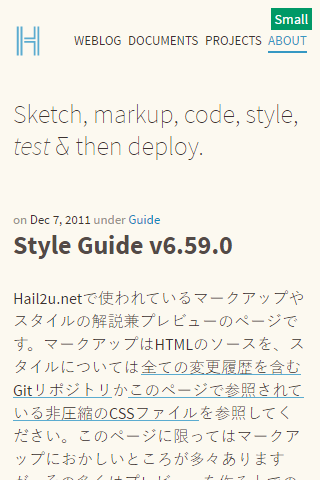
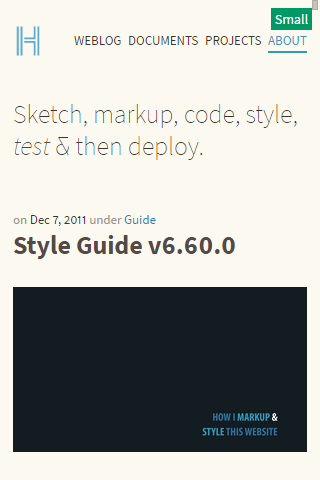
Deploy

diff --git a/styles/debug.min.css b/styles/debug.min.css
@@ -3,5 +3,5 @@
  * https://github.com/hail2u/hail2u.net-styles
  *
  * Licensed under MIT: http://hail2u.mit-license.org/2012
- */.colors{zoom:1}.colors:before,.colors:after{display:block;content:""}.colors:after{clear:both}.show-column::before{background-image:linear-gradient(to right,#0f0 0,#0f0 100%),linear-gradient(to right,#0f0 0,#0f0 100%),linear-gradient(to right,#f0f 0,#f0f 100%);background-position:left center,right center,center;background-repeat:repeat-y;background-size:.809rem,.809rem,100%;bottom:0;content:'';left:0;opacity:.05;pointer-events:none;position:fixed;right:0;top:0;z-index:1}body::after{background-color:#096;color:#fff;content:'Small';display:block;font-size:.875rem;line-height:1;padding:.25rem;position:fixed;right:.5rem;top:.5rem}.font-family-body{font-family:Source Sans Pro,Segoe UI Emoji,sans-serif}.font-family-code{font-family:Source Code Pro,Segoe UI Emoji,monospace}.font-family-tagline{font-family:Megrim,Source Sans Pro,Segoe UI Emoji,sans-serif;font-weight:200}.italic{font-style:italic}.bold{font-weight:700}.colors{padding-left:0}.colors li{-moz-box-sizing:border-box;box-sizing:border-box;display:block;height:3rem;margin-top:1.618rem;overflow:hidden;width:100%}.colors li::before{-moz-box-sizing:border-box;box-sizing:border-box;border:1px solid #000;content:'';display:block;height:100%;width:100%}.colors__variation-shade li:nth-child(1)::before{background-color:#3c3330}.colors__variation-shade li:nth-child(2)::before{background-color:#534a47}.colors__variation-shade li:nth-child(3)::before{background-color:#6a625e}.colors__variation-shade li:nth-child(4)::before{background-color:#817a75}.colors__variation-shade li:nth-child(5)::before{background-color:#98928c}.colors__variation-tint li:nth-child(1)::before{background-color:#fcf9f0}.colors__variation-tint li:nth-child(2)::before{background-color:#b3ada7}.colors__variation-tint li:nth-child(3)::before{background-color:#cac5be}.colors__variation-tint li:nth-child(4)::before{background-color:#e1ddd5}.colors__variation-tint li:nth-child(5)::before{background-color:#f8f5ec}.colors__variation-accent li:nth-child(1)::before{background-color:#18b}.colors__variation-accent li:nth-child(2)::before{background-color:#045375}.colors__variation-accent li:nth-child(3)::before{background-color:#056b97}.colors__variation-accent li:nth-child(4)::before{background-color:#3598c3}.colors__variation-accent li:nth-child(5)::before{background-color:#5bacd0}.colors__variation-accent__complement li:nth-child(1)::before{background-color:#ff8c0c}.colors__variation-accent__complement li:nth-child(2)::before{background-color:#b96200}.colors__variation-accent__complement li:nth-child(3)::before{background-color:#ef7e00}.colors__variation-accent__complement li:nth-child(4)::before{background-color:#ffa33c}.colors__variation-accent__complement li:nth-child(5)::before{background-color:#ffb868}.colors__variation-accent__adjacent-negative li:nth-child(1)::before{background-color:#0acb58}.colors__variation-accent__adjacent-negative li:nth-child(2)::before{background-color:#008536}.colors__variation-accent__adjacent-negative li:nth-child(3)::before{background-color:#00ac46}.colors__variation-accent__adjacent-negative li:nth-child(4)::before{background-color:#31d172}.colors__variation-accent__adjacent-negative li:nth-child(5)::before{background-color:#5adb8e}.colors__variation-accent__adjacent-positive li:nth-child(1)::before{background-color:#2238c5}.colors__variation-accent__adjacent-positive li:nth-child(2)::before{background-color:#0c1c7f}.colors__variation-accent__adjacent-positive li:nth-child(3)::before{background-color:#1024a4}.colors__variation-accent__adjacent-positive li:nth-child(4)::before{background-color:#4457cc}.colors__variation-accent__adjacent-positive li:nth-child(5)::before{background-color:#6878d7}.colors__variation-accent__triad-negative li:nth-child(1)::before{background-color:#ffba0c}.colors__variation-accent__triad-negative li:nth-child(2)::before{background-color:#b98500}.colors__variation-accent__triad-negative li:nth-child(3)::before{background-color:#efac00}.colors__variation-accent__triad-negative li:nth-child(4)::before{background-color:#ffc83c}.colors__variation-accent__triad-negative li:nth-child(5)::before{background-color:#ffd468}.colors__variation-accent__triad-positive li:nth-child(1)::before{background-color:#ff3b0c}.colors__variation-accent__triad-positive li:nth-child(2)::before{background-color:#b92300}.colors__variation-accent__triad-positive li:nth-child(3)::before{background-color:#ef2e00}.colors__variation-accent__triad-positive li:nth-child(4)::before{background-color:#ff613c}.colors__variation-accent__triad-positive li:nth-child(5)::before{background-color:#ff8568}.line-length{font-family:Verdana,sans-serif;word-break:break-all}@media(min-width:39.118rem){/*! Applied wider than 39.118rem */.show-column::before{background-image:linear-gradient(to right,#0f0 0,#0f0 .809rem,#f0f .809rem,#f0f 36.809rem,#0f0 36.809rem,#0f0 37.618rem);background-position:center;background-size:37.618rem 1px}body::after{content:"Medium: 625.888px"}.colors{margin-left:-.809rem;margin-right:-.809rem}.colors li{float:left;margin-top:0;padding-left:.809rem;padding-right:.809rem;width:20%}}@media(min-width:61.844rem){/*! Applied wider than 61.844rem */.show-column::before{background-image:linear-gradient(to right,#0f0 0,#0f0 .809rem,#f0f .809rem,#f0f 13.56rem,#0f0 13.56rem,#0f0 15.178rem,#f0f 15.178rem,#f0f 51.178rem,#0f0 51.178rem,#0f0 51.987rem);background-size:51.987rem 1px}body::after{content:"Large: 989.508px"}}@media print{body::after{display:none}}
+ */.colors{zoom:1}.colors:before,.colors:after{display:block;content:""}.colors:after{clear:both}.show-column::before{background-image:linear-gradient(to right,#0f0 0,#0f0 100%),linear-gradient(to right,#0f0 0,#0f0 100%),linear-gradient(to right,#f0f 0,#f0f 100%);background-position:left center,right center,center;background-repeat:repeat-y;background-size:.809rem,.809rem,100%;bottom:0;content:'';left:0;opacity:.05;pointer-events:none;position:fixed;right:0;top:0;z-index:1}body::after{background-color:#096;color:#fff;content:'Small';display:block;font-size:.875rem;line-height:1;padding:.25rem;position:fixed;right:.5rem;top:.5rem}.font-family-body{font-family:Source Sans Pro,Segoe UI Emoji,sans-serif}.font-family-code{font-family:Source Code Pro,Segoe UI Emoji,monospace}.font-family-tagline{font-family:Megrim,Source Sans Pro,Segoe UI Emoji,sans-serif;font-weight:200}.italic{font-style:italic}.bold{font-weight:700}.colors{padding-left:0}.colors li{-moz-box-sizing:border-box;box-sizing:border-box;display:block;height:3rem;margin-top:1.618rem;overflow:hidden;width:100%}.colors li::before{-moz-box-sizing:border-box;box-sizing:border-box;border:1px solid #000;content:'';display:block;height:100%;width:100%}.colors.variation-shade li:nth-child(1)::before{background-color:#3c3330}.colors.variation-shade li:nth-child(2)::before{background-color:#534a47}.colors.variation-shade li:nth-child(3)::before{background-color:#6a625e}.colors.variation-shade li:nth-child(4)::before{background-color:#817a75}.colors.variation-shade li:nth-child(5)::before{background-color:#98928c}.colors.variation-tint li:nth-child(1)::before{background-color:#fcf9f0}.colors.variation-tint li:nth-child(2)::before{background-color:#b3ada7}.colors.variation-tint li:nth-child(3)::before{background-color:#cac5be}.colors.variation-tint li:nth-child(4)::before{background-color:#e1ddd5}.colors.variation-tint li:nth-child(5)::before{background-color:#f8f5ec}.colors.variation-accent li:nth-child(1)::before{background-color:#18b}.colors.variation-accent li:nth-child(2)::before{background-color:#045375}.colors.variation-accent li:nth-child(3)::before{background-color:#056b97}.colors.variation-accent li:nth-child(4)::before{background-color:#3598c3}.colors.variation-accent li:nth-child(5)::before{background-color:#5bacd0}.colors.variation-accent.complement li:nth-child(1)::before{background-color:#ff8c0c}.colors.variation-accent.complement li:nth-child(2)::before{background-color:#b96200}.colors.variation-accent.complement li:nth-child(3)::before{background-color:#ef7e00}.colors.variation-accent.complement li:nth-child(4)::before{background-color:#ffa33c}.colors.variation-accent.complement li:nth-child(5)::before{background-color:#ffb868}.colors.variation-accent.adjacent-negative li:nth-child(1)::before{background-color:#0acb58}.colors.variation-accent.adjacent-negative li:nth-child(2)::before{background-color:#008536}.colors.variation-accent.adjacent-negative li:nth-child(3)::before{background-color:#00ac46}.colors.variation-accent.adjacent-negative li:nth-child(4)::before{background-color:#31d172}.colors.variation-accent.adjacent-negative li:nth-child(5)::before{background-color:#5adb8e}.colors.variation-accent.adjacent-positive li:nth-child(1)::before{background-color:#2238c5}.colors.variation-accent.adjacent-positive li:nth-child(2)::before{background-color:#0c1c7f}.colors.variation-accent.adjacent-positive li:nth-child(3)::before{background-color:#1024a4}.colors.variation-accent.adjacent-positive li:nth-child(4)::before{background-color:#4457cc}.colors.variation-accent.adjacent-positive li:nth-child(5)::before{background-color:#6878d7}.colors.variation-accent.triad-negative li:nth-child(1)::before{background-color:#ffba0c}.colors.variation-accent.triad-negative li:nth-child(2)::before{background-color:#b98500}.colors.variation-accent.triad-negative li:nth-child(3)::before{background-color:#efac00}.colors.variation-accent.triad-negative li:nth-child(4)::before{background-color:#ffc83c}.colors.variation-accent.triad-negative li:nth-child(5)::before{background-color:#ffd468}.colors.variation-accent.triad-positive li:nth-child(1)::before{background-color:#ff3b0c}.colors.variation-accent.triad-positive li:nth-child(2)::before{background-color:#b92300}.colors.variation-accent.triad-positive li:nth-child(3)::before{background-color:#ef2e00}.colors.variation-accent.triad-positive li:nth-child(4)::before{background-color:#ff613c}.colors.variation-accent.triad-positive li:nth-child(5)::before{background-color:#ff8568}.line-length{font-family:Verdana,sans-serif;word-break:break-all}@media(min-width:39.118rem){/*! Applied wider than 39.118rem */.show-column::before{background-image:linear-gradient(to right,#0f0 0,#0f0 .809rem,#f0f .809rem,#f0f 36.809rem,#0f0 36.809rem,#0f0 37.618rem);background-position:center;background-size:37.618rem 1px}body::after{content:"Medium: 625.888px"}.colors{margin-left:-.809rem;margin-right:-.809rem}.colors li{float:left;margin-top:0;padding-left:.809rem;padding-right:.809rem;width:20%}}@media(min-width:61.844rem){/*! Applied wider than 61.844rem */.show-column::before{background-image:linear-gradient(to right,#0f0 0,#0f0 .809rem,#f0f .809rem,#f0f 13.56rem,#0f0 13.56rem,#0f0 15.178rem,#f0f 15.178rem,#f0f 51.178rem,#0f0 51.178rem,#0f0 51.987rem);background-size:51.987rem 1px}body::after{content:"Large: 989.508px"}}@media print{body::after{display:none}}
 /*# sourceMappingURL=debug.min.css.map */

diff --git a/styles/debug.css b/styles/debug.css
@@ -105,94 +105,86 @@ body::after {
         padding-left: 0.809rem;
         padding-right: 0.809rem;
         width: 20%; } }
-
-.colors__variation-shade li:nth-child(1)::before {
-  background-color: #3c3330; }
-.colors__variation-shade li:nth-child(2)::before {
-  background-color: #534a47; }
-.colors__variation-shade li:nth-child(3)::before {
-  background-color: #6a625e; }
-.colors__variation-shade li:nth-child(4)::before {
-  background-color: #817a75; }
-.colors__variation-shade li:nth-child(5)::before {
-  background-color: #98928c; }
-
-.colors__variation-tint li:nth-child(1)::before {
-  background-color: #fcf9f0; }
-.colors__variation-tint li:nth-child(2)::before {
-  background-color: #b3ada7; }
-.colors__variation-tint li:nth-child(3)::before {
-  background-color: #cac5be; }
-.colors__variation-tint li:nth-child(4)::before {
-  background-color: #e1ddd5; }
-.colors__variation-tint li:nth-child(5)::before {
-  background-color: #f8f5ec; }
-
-.colors__variation-accent li:nth-child(1)::before {
-  background-color: #1188bb; }
-.colors__variation-accent li:nth-child(2)::before {
-  background-color: #045375; }
-.colors__variation-accent li:nth-child(3)::before {
-  background-color: #056b97; }
-.colors__variation-accent li:nth-child(4)::before {
-  background-color: #3598c3; }
-.colors__variation-accent li:nth-child(5)::before {
-  background-color: #5bacd0; }
-
-.colors__variation-accent__complement li:nth-child(1)::before {
-  background-color: #ff8c0c; }
-.colors__variation-accent__complement li:nth-child(2)::before {
-  background-color: #b96200; }
-.colors__variation-accent__complement li:nth-child(3)::before {
-  background-color: #ef7e00; }
-.colors__variation-accent__complement li:nth-child(4)::before {
-  background-color: #ffa33c; }
-.colors__variation-accent__complement li:nth-child(5)::before {
-  background-color: #ffb868; }
-
-.colors__variation-accent__adjacent-negative li:nth-child(1)::before {
-  background-color: #0acb58; }
-.colors__variation-accent__adjacent-negative li:nth-child(2)::before {
-  background-color: #008536; }
-.colors__variation-accent__adjacent-negative li:nth-child(3)::before {
-  background-color: #00ac46; }
-.colors__variation-accent__adjacent-negative li:nth-child(4)::before {
-  background-color: #31d172; }
-.colors__variation-accent__adjacent-negative li:nth-child(5)::before {
-  background-color: #5adb8e; }
-
-.colors__variation-accent__adjacent-positive li:nth-child(1)::before {
-  background-color: #2238c5; }
-.colors__variation-accent__adjacent-positive li:nth-child(2)::before {
-  background-color: #0c1c7f; }
-.colors__variation-accent__adjacent-positive li:nth-child(3)::before {
-  background-color: #1024a4; }
-.colors__variation-accent__adjacent-positive li:nth-child(4)::before {
-  background-color: #4457cc; }
-.colors__variation-accent__adjacent-positive li:nth-child(5)::before {
-  background-color: #6878d7; }
-
-.colors__variation-accent__triad-negative li:nth-child(1)::before {
-  background-color: #ffba0c; }
-.colors__variation-accent__triad-negative li:nth-child(2)::before {
-  background-color: #b98500; }
-.colors__variation-accent__triad-negative li:nth-child(3)::before {
-  background-color: #efac00; }
-.colors__variation-accent__triad-negative li:nth-child(4)::before {
-  background-color: #ffc83c; }
-.colors__variation-accent__triad-negative li:nth-child(5)::before {
-  background-color: #ffd468; }
-
-.colors__variation-accent__triad-positive li:nth-child(1)::before {
-  background-color: #ff3b0c; }
-.colors__variation-accent__triad-positive li:nth-child(2)::before {
-  background-color: #b92300; }
-.colors__variation-accent__triad-positive li:nth-child(3)::before {
-  background-color: #ef2e00; }
-.colors__variation-accent__triad-positive li:nth-child(4)::before {
-  background-color: #ff613c; }
-.colors__variation-accent__triad-positive li:nth-child(5)::before {
-  background-color: #ff8568; }
+  .colors.variation-shade li:nth-child(1)::before {
+    background-color: #3c3330; }
+  .colors.variation-shade li:nth-child(2)::before {
+    background-color: #534a47; }
+  .colors.variation-shade li:nth-child(3)::before {
+    background-color: #6a625e; }
+  .colors.variation-shade li:nth-child(4)::before {
+    background-color: #817a75; }
+  .colors.variation-shade li:nth-child(5)::before {
+    background-color: #98928c; }
+  .colors.variation-tint li:nth-child(1)::before {
+    background-color: #fcf9f0; }
+  .colors.variation-tint li:nth-child(2)::before {
+    background-color: #b3ada7; }
+  .colors.variation-tint li:nth-child(3)::before {
+    background-color: #cac5be; }
+  .colors.variation-tint li:nth-child(4)::before {
+    background-color: #e1ddd5; }
+  .colors.variation-tint li:nth-child(5)::before {
+    background-color: #f8f5ec; }
+  .colors.variation-accent li:nth-child(1)::before {
+    background-color: #1188bb; }
+  .colors.variation-accent li:nth-child(2)::before {
+    background-color: #045375; }
+  .colors.variation-accent li:nth-child(3)::before {
+    background-color: #056b97; }
+  .colors.variation-accent li:nth-child(4)::before {
+    background-color: #3598c3; }
+  .colors.variation-accent li:nth-child(5)::before {
+    background-color: #5bacd0; }
+  .colors.variation-accent.complement li:nth-child(1)::before {
+    background-color: #ff8c0c; }
+  .colors.variation-accent.complement li:nth-child(2)::before {
+    background-color: #b96200; }
+  .colors.variation-accent.complement li:nth-child(3)::before {
+    background-color: #ef7e00; }
+  .colors.variation-accent.complement li:nth-child(4)::before {
+    background-color: #ffa33c; }
+  .colors.variation-accent.complement li:nth-child(5)::before {
+    background-color: #ffb868; }
+  .colors.variation-accent.adjacent-negative li:nth-child(1)::before {
+    background-color: #0acb58; }
+  .colors.variation-accent.adjacent-negative li:nth-child(2)::before {
+    background-color: #008536; }
+  .colors.variation-accent.adjacent-negative li:nth-child(3)::before {
+    background-color: #00ac46; }
+  .colors.variation-accent.adjacent-negative li:nth-child(4)::before {
+    background-color: #31d172; }
+  .colors.variation-accent.adjacent-negative li:nth-child(5)::before {
+    background-color: #5adb8e; }
+  .colors.variation-accent.adjacent-positive li:nth-child(1)::before {
+    background-color: #2238c5; }
+  .colors.variation-accent.adjacent-positive li:nth-child(2)::before {
+    background-color: #0c1c7f; }
+  .colors.variation-accent.adjacent-positive li:nth-child(3)::before {
+    background-color: #1024a4; }
+  .colors.variation-accent.adjacent-positive li:nth-child(4)::before {
+    background-color: #4457cc; }
+  .colors.variation-accent.adjacent-positive li:nth-child(5)::before {
+    background-color: #6878d7; }
+  .colors.variation-accent.triad-negative li:nth-child(1)::before {
+    background-color: #ffba0c; }
+  .colors.variation-accent.triad-negative li:nth-child(2)::before {
+    background-color: #b98500; }
+  .colors.variation-accent.triad-negative li:nth-child(3)::before {
+    background-color: #efac00; }
+  .colors.variation-accent.triad-negative li:nth-child(4)::before {
+    background-color: #ffc83c; }
+  .colors.variation-accent.triad-negative li:nth-child(5)::before {
+    background-color: #ffd468; }
+  .colors.variation-accent.triad-positive li:nth-child(1)::before {
+    background-color: #ff3b0c; }
+  .colors.variation-accent.triad-positive li:nth-child(2)::before {
+    background-color: #b92300; }
+  .colors.variation-accent.triad-positive li:nth-child(3)::before {
+    background-color: #ef2e00; }
+  .colors.variation-accent.triad-positive li:nth-child(4)::before {
+    background-color: #ff613c; }
+  .colors.variation-accent.triad-positive li:nth-child(5)::before {
+    background-color: #ff8568; }
 
 .line-length {
   font-family: 'Verdana', sans-serif;

diff --git a/about/style-guide/index.html b/about/style-guide/index.html
@@ -72,7 +72,7 @@
 
     <main class="main" role="main">
       <article id="introduction">
-        <h1 class="article-heading">Style Guide v6.59.16</h1>
+        <h1 class="article-heading">Style Guide v6.60.0</h1>
 
         <footer class="article-footer">
           <p>on <time datetime="2011-12-07T15:22+09:00" itemprop="datePublished">Dec 7, 2011</time> under <span class="tag" itemprop="keywords"><a href="#">Guide</a></span></p>
@@ -262,7 +262,7 @@
       <section id="colors">
         <h1>カラーパレット</h1>
 
-        <ul class="colors colors__variation-shade">
+        <ul class="colors variation-shade">
           <li>文字色</li>
           <li>更に暗い色</li>
           <li>最も暗い色</li>
@@ -270,7 +270,7 @@
           <li>明るい色</li>
         </ul>
 
-        <ul class="colors colors__variation-tint">
+        <ul class="colors variation-tint">
           <li>背景色</li>
           <li>最も暗い色</li>
           <li>暗い色</li>
@@ -278,7 +278,7 @@
           <li>最も明るい色</li>
         </ul>
 
-        <ul class="colors colors__variation-accent">
+        <ul class="colors variation-accent">
           <li>アクセント</li>
           <li>最も暗い色</li>
           <li>暗い色</li>
@@ -286,7 +286,7 @@
           <li>最も明るい色</li>
         </ul>
 
-        <ul class="colors colors__variation-accent__complement">
+        <ul class="colors variation-accent complement">
           <li>アクセントの補色</li>
           <li>最も暗い色</li>
           <li>暗い色</li>
@@ -294,7 +294,7 @@
           <li>最も明るい色</li>
         </ul>
 
-        <ul class="colors colors__variation-accent__adjacent-negative">
+        <ul class="colors variation-accent adjacent-negative">
           <li>アクセントの色合い違い(-30度)</li>
           <li>最も暗い色</li>
           <li>暗い色</li>
@@ -302,7 +302,7 @@
           <li>最も明るい色</li>
         </ul>
 
-        <ul class="colors colors__variation-accent__adjacent-positive">
+        <ul class="colors variation-accent adjacent-positive">
           <li>アクセントの色合い違い(+30度)</li>
           <li>最も暗い色</li>
           <li>暗い色</li>
@@ -310,7 +310,7 @@
           <li>最も明るい色</li>
         </ul>
 
-        <ul class="colors colors__variation-accent__triad-negative">
+        <ul class="colors variation-accent triad-negative">
           <li>アクセントの補色の色合い違い(-30度)</li>
           <li>最も暗い色</li>
           <li>暗い色</li>
@@ -318,7 +318,7 @@
           <li>最も明るい色</li>
         </ul>
 
-        <ul class="colors colors__variation-accent__triad-positive">
+        <ul class="colors variation-accent triad-positive">
           <li>アクセントの補色の色合い違い(+30度)</li>
           <li>最も暗い色</li>
           <li>暗い色</li>

diff --git a/styles/style.css b/styles/style.css
@@ -1,5 +1,5 @@
 /*!
- * style.css v6.59.16
+ * style.css v6.60.0
  * https://github.com/hail2u/hail2u.net-styles
  *
  * Licensed under MIT: http://hail2u.mit-license.org/2011

diff --git a/styles/style.min.css b/styles/style.min.css
@@ -1,5 +1,5 @@
 /*!
- * style.css v6.59.16
+ * style.css v6.60.0
  * https://github.com/hail2u/hail2u.net-styles
  *
  * Licensed under MIT: http://hail2u.mit-license.org/2011
